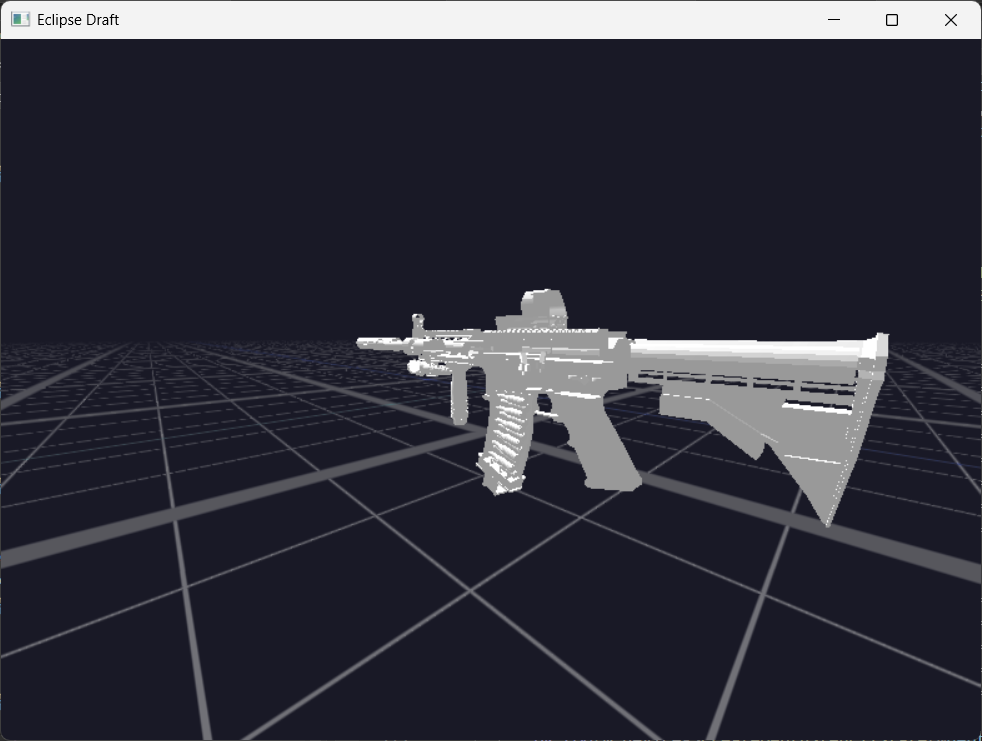
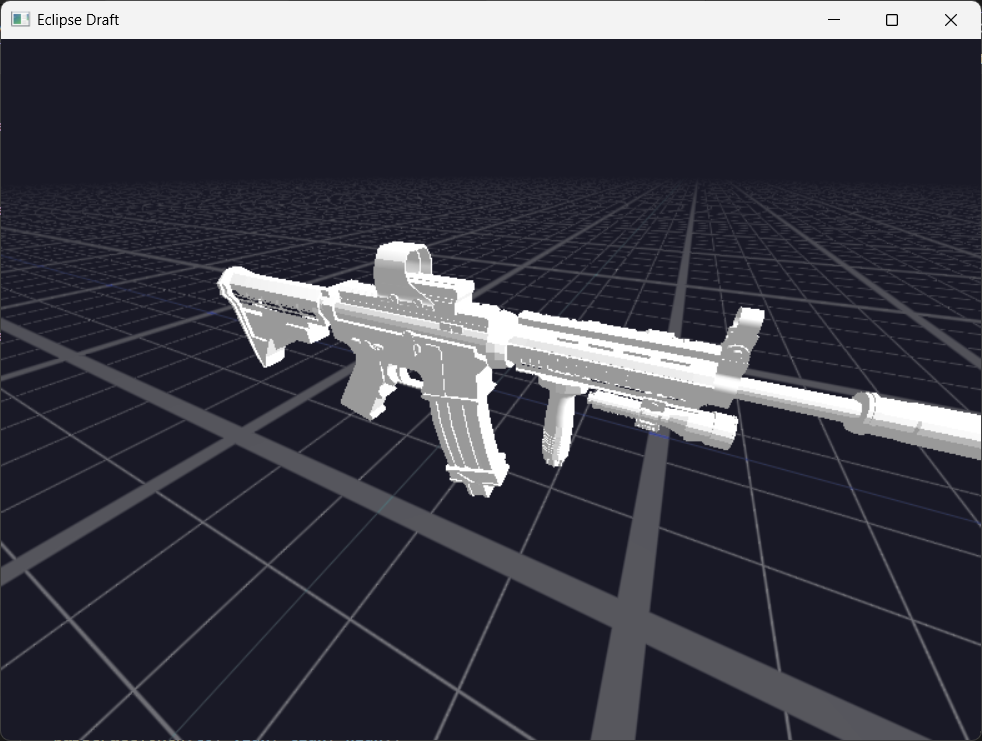
Fixed issue when some parts of the model appeared transparent

diff --git a/src/engine/MeshLoader.cpp b/src/engine/MeshLoader.cpp
@@ -1,4 +1,4 @@
-#include "MeshLoader.hpp"
+#include "MeshLoader.hpp"
 
 Mesh MeshLoader::LoadFromOBJ(const std::string& path, ID3D11Device* device) {
 	std::ifstream file(path);
@@ -6,14 +6,33 @@ Mesh MeshLoader::LoadFromOBJ(const std::string& path, ID3D11Device* device) {
 		throw std::runtime_error("Cannot open OBJ file: " + path);
 	}
 
-	std::vector<DirectX::XMFLOAT3A> positions;
-	std::vector<DirectX::XMFLOAT3A> normals;
-	std::vector<DirectX::XMFLOAT2A> uvs;
-
 	std::vector<Vertex> vertices;
 	std::vector<uint32_t> indices;
 	std::unordered_map<VertexKey, uint32_t, VertexKeyHasher> uniqueVerts;
-	
+	std::vector<DirectX::XMFLOAT3A> positions;
+	std::vector<DirectX::XMFLOAT3A> normals;
+	std::vector<DirectX::XMFLOAT2A> uvs;
+	uint32_t currentSmoothGroup = 0;
+
+	bool hasSmoothGroups = false;
+
+	auto parseFaceToken = [](const std::string& token, uint32_t& vIdx, uint32_t& tIdx, uint32_t& nIdx) {
+		vIdx = tIdx = nIdx = 0;
+		std::stringstream ss(token);
+		std::string part;
+		int idx = 0;
+		while (std::getline(ss, part, '/') && idx < 3) {
+			if (!part.empty()) {
+				try {
+					if (idx == 0) vIdx = static_cast<uint32_t>(std::stoul(part));
+					else if (idx == 1) tIdx = static_cast<uint32_t>(std::stoul(part));
+					else if (idx == 2) nIdx = static_cast<uint32_t>(std::stoul(part));
+				} catch (...)  {}
+			}
+			++idx;
+		}
+	};
+
 	std::string line;
 	while (std::getline(file, line)) {
 		if (line.empty() || line[0] == '#') {
@@ -36,6 +55,12 @@ Mesh MeshLoader::LoadFromOBJ(const std::string& path, ID3D11Device* device) {
 			DirectX::XMFLOAT3A norm{};
 			iss >> norm.x >> norm.y >> norm.z;
 			normals.push_back(norm);
+		} else if (type == "s") {
+			hasSmoothGroups = true;
+			std::string arg;
+			iss >> arg;
+			if (arg == "off") currentSmoothGroup = 0;
+			else currentSmoothGroup = static_cast<uint32_t>(std::stoul(arg));
 		} else if (type == "f") {
 			std::vector<std::string> faceVerts;
 			std::string vertStr;
@@ -43,51 +68,115 @@ Mesh MeshLoader::LoadFromOBJ(const std::string& path, ID3D11Device* device) {
 				faceVerts.push_back(vertStr);
 			}
 
-			Face current = [&faceVerts]() -> Face {
-				Face result;
+			size_t n = faceVerts.size();
+			if (n < 3) {
+				continue;
+			}
 
-				result.numTris = 3 * faceVerts.size() - 6;
-				result.triOrder.reserve(result.numTris);
-
-				size_t vert1 = 1, vert2 = 2;
-				for (size_t i = 0; i < result.numTris; i++) {
-					switch ((i + 3) % 3) {
-					case 0: result.triOrder.push_back(0); break;
-					case 1: result.triOrder.push_back(vert1++); break;
-					case 2: result.triOrder.push_back(vert2++); break;
-					}
-				}
-
-				return result;
-			}();
-
-			for (int t = 0; t < current.numTris; t++) {
-				int idx = current.triOrder.at(t);
+			for (size_t i = 1; i + 1 < n; i++) {
+				std::string t0 = faceVerts[0];
+				std::string t1 = faceVerts[i];
+				std::string t2 = faceVerts[i + 1];
 
 				uint32_t vIdx = 0, tIdx = 0, nIdx = 0;
-				sscanf_s(faceVerts.at(idx).c_str(), "%d/%d/%d", &vIdx, &tIdx, &nIdx);
 
-				VertexKey key{};
-				key.pos = positions.at(vIdx - 1);
-				key.norm = (nIdx > 0) ? normals.at(nIdx - 1) : DirectX::XMFLOAT3A{ 0, 0, 0 };
-				key.uv = (tIdx > 0) ? uvs.at(tIdx - 1) : DirectX::XMFLOAT2A{ 0, 0 };
+				parseFaceToken(t0, vIdx, tIdx, nIdx);
+				VertexKey key0{};
+				key0.pos = positions.at(vIdx - 1);
+				key0.norm = (nIdx > 0) ? normals.at(nIdx - 1) : DirectX::XMFLOAT3A{ 0, 0, 0 };
+				key0.uv = (tIdx > 0) ? uvs.at(tIdx - 1) : DirectX::XMFLOAT2A{ 0, 0 };
+				key0.smoothGroup = currentSmoothGroup;
 
-				auto it = uniqueVerts.find(key);
-				if (it == uniqueVerts.end()) {
+				auto it0 = uniqueVerts.find(key0);
+				uint32_t idx0;
+				if (it0 == uniqueVerts.end()) {
 					Vertex vert{};
-					vert.SetPosition(key.pos);
-					vert.SetNormal(DirectX::XMLoadFloat3A(&key.norm));
+					vert.SetPosition(key0.pos);
+					vert.SetNormal(DirectX::XMLoadFloat3A(&key0.norm));
 					vert.SetColor(DirectX::XMFLOAT4A(1.0f, 1.0f, 1.0f, 1.0f));
-					vert.SetUV(DirectX::XMLoadFloat2A(&key.uv));
+					vert.SetUV(DirectX::XMLoadFloat2A(&key0.uv));
 					vertices.push_back(vert);
-
-					uint32_t newIndex = static_cast<uint32_t>(vertices.size() - 1);
-					uniqueVerts[key] = newIndex;
-					indices.push_back(newIndex);
+					idx0 = static_cast<uint32_t>(vertices.size() - 1);
+					uniqueVerts[key0] = idx0;
 				} else {
-					indices.push_back(it->second);
+					idx0 = it0->second;
 				}
+
+				parseFaceToken(t1, vIdx, tIdx, nIdx);
+				VertexKey key1{};
+				key1.pos = positions.at(vIdx - 1);
+				key1.norm = (nIdx > 0) ? normals.at(nIdx - 1) : DirectX::XMFLOAT3A{ 0, 0, 0 };
+				key1.uv = (tIdx > 0) ? uvs.at(tIdx - 1) : DirectX::XMFLOAT2A{ 0, 0 };
+				key1.smoothGroup = currentSmoothGroup;
+
+				auto it1 = uniqueVerts.find(key1);
+				uint32_t idx1;
+				if (it1 == uniqueVerts.end()) {
+					Vertex vert{};
+					vert.SetPosition(key1.pos);
+					vert.SetNormal(DirectX::XMLoadFloat3A(&key1.norm));
+					vert.SetColor(DirectX::XMFLOAT4A(1.0f, 1.0f, 1.0f, 1.0f));
+					vert.SetUV(DirectX::XMLoadFloat2A(&key1.uv));
+					vertices.push_back(vert);
+					idx1 = static_cast<uint32_t>(vertices.size() - 1);
+					uniqueVerts[key1] = idx1;
+				} else {
+					idx1 = it1->second;
+				}
+
+				parseFaceToken(t2, vIdx, tIdx, nIdx);
+				VertexKey key2{};
+				key2.pos = positions.at(vIdx - 1);
+				key2.norm = (nIdx > 0) ? normals.at(nIdx - 1) : DirectX::XMFLOAT3A{ 0, 0, 0 };
+				key2.uv = (tIdx > 0) ? uvs.at(tIdx - 1) : DirectX::XMFLOAT2A{ 0, 0 };
+				key2.smoothGroup = currentSmoothGroup;
+
+				auto it2 = uniqueVerts.find(key2);
+				uint32_t idx2;
+				if (it2 == uniqueVerts.end()) {
+					Vertex vert{};
+					vert.SetPosition(key2.pos);
+					vert.SetNormal(DirectX::XMLoadFloat3A(&key2.norm));
+					vert.SetColor(DirectX::XMFLOAT4A(1.0f, 1.0f, 1.0f, 1.0f));
+					vert.SetUV(DirectX::XMLoadFloat2A(&key2.uv));
+					vertices.push_back(vert);
+					idx2 = static_cast<uint32_t>(vertices.size() - 1);
+					uniqueVerts[key2] = idx2;
+				} else {
+					idx2 = it2->second;
+				}
+
+				indices.push_back(idx0);
+				indices.push_back(idx1);
+				indices.push_back(idx2);
 			}
+		}
+	}
+
+	if (hasSmoothGroups) {
+		std::vector<DirectX::XMVECTOR> accum(vertices.size(), DirectX::XMVectorZero());
+
+		for (size_t i = 0; i < indices.size(); i += 3) {
+			uint32_t i0 = indices[i];
+			uint32_t i1 = indices[i + 1];
+			uint32_t i2 = indices[i + 2];
+
+			DirectX::XMVECTOR p0 = vertices[i0].PositionVec();
+			DirectX::XMVECTOR p1 = vertices[i1].PositionVec();
+			DirectX::XMVECTOR p2 = vertices[i2].PositionVec();
+
+			DirectX::XMVECTOR e1 = DirectX::XMVectorSubtract(p1, p0);
+			DirectX::XMVECTOR e2 = DirectX::XMVectorSubtract(p2, p0);
+			DirectX::XMVECTOR faceNormal = DirectX::XMVector3Normalize(DirectX::XMVector3Cross(e1, e2));
+
+			accum[i0] = DirectX::XMVectorAdd(accum[i0], faceNormal);
+			accum[i1] = DirectX::XMVectorAdd(accum[i1], faceNormal);
+			accum[i2] = DirectX::XMVectorAdd(accum[i2], faceNormal);
+		}
+
+		for (size_t i = 0; i < vertices.size(); ++i) {
+			DirectX::XMVECTOR n = DirectX::XMVector3Normalize(accum[i]);
+			vertices[i].SetNormal(n);
 		}
 	}
 

diff --git a/src/engine/MeshLoader.hpp b/src/engine/MeshLoader.hpp
@@ -10,12 +10,14 @@
 struct Face {
 	std::vector<size_t> triOrder;
 	size_t numTris;
+	size_t smoothGroup;
 };
 
 struct VertexKey {
 	DirectX::XMFLOAT3A pos;
 	DirectX::XMFLOAT3A norm;
 	DirectX::XMFLOAT2A uv;
+	size_t smoothGroup;
 
 	bool operator==(const VertexKey& other) const {
 		return memcmp(this, &other, sizeof(VertexKey)) == 0;
@@ -27,7 +29,8 @@ struct VertexKeyHasher {
 		size_t h1 = std::hash<float>{}(v.pos.x)  ^ (std::hash<float>{}(v.pos.y) << 1)  ^ (std::hash<float>{}(v.pos.z) << 2);
 		size_t h2 = std::hash<float>{}(v.norm.x) ^ (std::hash<float>{}(v.norm.y) << 1) ^ (std::hash<float>{}(v.norm.z) << 2);
 		size_t h3 = std::hash<float>{}(v.uv.x)   ^ (std::hash<float>{}(v.uv.y) << 1);
-		return h1 ^ (h2 << 1) ^ (h3 << 2);
+		size_t h4 = std::hash<uint32_t>{}(v.smoothGroup);
+		return (((h1 ^ h2) << 1) ^ h3) ^ (h4 << 1);
 	}
 };
 

diff --git a/src/app/Application.cpp b/src/app/Application.cpp
@@ -1,4 +1,6 @@
 #include "Application.hpp"
+#include <engine/GraphicsDevice.hpp>
+#include <thread>
 
 int Application::Initialize(int width, int height) {
 	if (!m_mainWindow.Create(L"Eclipse Draft", WS_OVERLAPPEDWINDOW | WS_VISIBLE, 
@@ -13,12 +15,10 @@ int Application::Exec(int cmdShow) {
 
 	MSG msg{};
 	while (msg.message != WM_QUIT) {
+		GraphicsDevice::ExecuteRenderJobs();
 		if (PeekMessage(&msg, nullptr, 0, 0, PM_REMOVE)) {
 			TranslateMessage(&msg);
 			DispatchMessage(&msg);
-		} else {
-			GraphicsDevice::ExecuteRenderJobs();
-			std::this_thread::sleep_for(std::chrono::milliseconds(2));
 		}
 	}
 	return static_cast<int>(msg.wParam);

diff --git a/src/engine/RenderTarget.cpp b/src/engine/RenderTarget.cpp
@@ -50,7 +50,7 @@ void RenderTarget::HandleResize() {
 	m_swapChain->ResizeBuffers(0, newWidth, newHeight, DXGI_FORMAT_UNKNOWN, 0);
 	Microsoft::WRL::ComPtr<ID3D11Texture2D> backBuffer;
 	m_swapChain->GetBuffer(0, IID_PPV_ARGS(&backBuffer));
-	GraphicsDevice::D3D11Device()->CreateRenderTargetView(backBuffer.Get(), nullptr, &m_rtv);
+	HR_LOG(GraphicsDevice::D3D11Device()->CreateRenderTargetView(backBuffer.Get(), nullptr, &m_rtv));
 	m_depthStencilView.Reset();
 	m_depthStencilBuffer.Reset();
 	InitDepthStencilView();

diff --git a/src/engine/Mesh.cpp b/src/engine/Mesh.cpp
@@ -30,6 +30,9 @@ void Mesh::Draw(ID3D11DeviceContext* context) const {
 	uint32_t stride = sizeof(Vertex);
 	uint32_t offset = 0;
 
+	context->RSSetState(GraphicsDevice::GridRasterizerState());
+	context->OMSetDepthStencilState(nullptr, 0);
+	context->OMSetBlendState(nullptr, nullptr, 0xFFFFFFFF);
 	context->IASetInputLayout(GraphicsDevice::InputLayout());
 	context->VSSetShader(GraphicsDevice::VertexShader(), nullptr, 0);
 	context->PSSetShader(GraphicsDevice::PixelShader(), nullptr, 0);

diff --git a/src/engine/GraphicsDevice.cpp b/src/engine/GraphicsDevice.cpp
@@ -192,7 +192,6 @@ void GraphicsDevice::InitShaders() {
 	Microsoft::WRL::ComPtr<ID3DBlob> vsBlob;
 	Microsoft::WRL::ComPtr<ID3DBlob> psBlob;
 	Microsoft::WRL::ComPtr<ID3DBlob> gridPsBlob;
-	Microsoft::WRL::ComPtr<ID3DBlob> gridVsBlob;
 	Microsoft::WRL::ComPtr<ID3DBlob> errorBlob;
 
 	HR_LOG(D3DCompileFromFile(L"src\\shaders\\VertexShader.hlsl", nullptr, nullptr, "VSMain", "vs_5_0",
